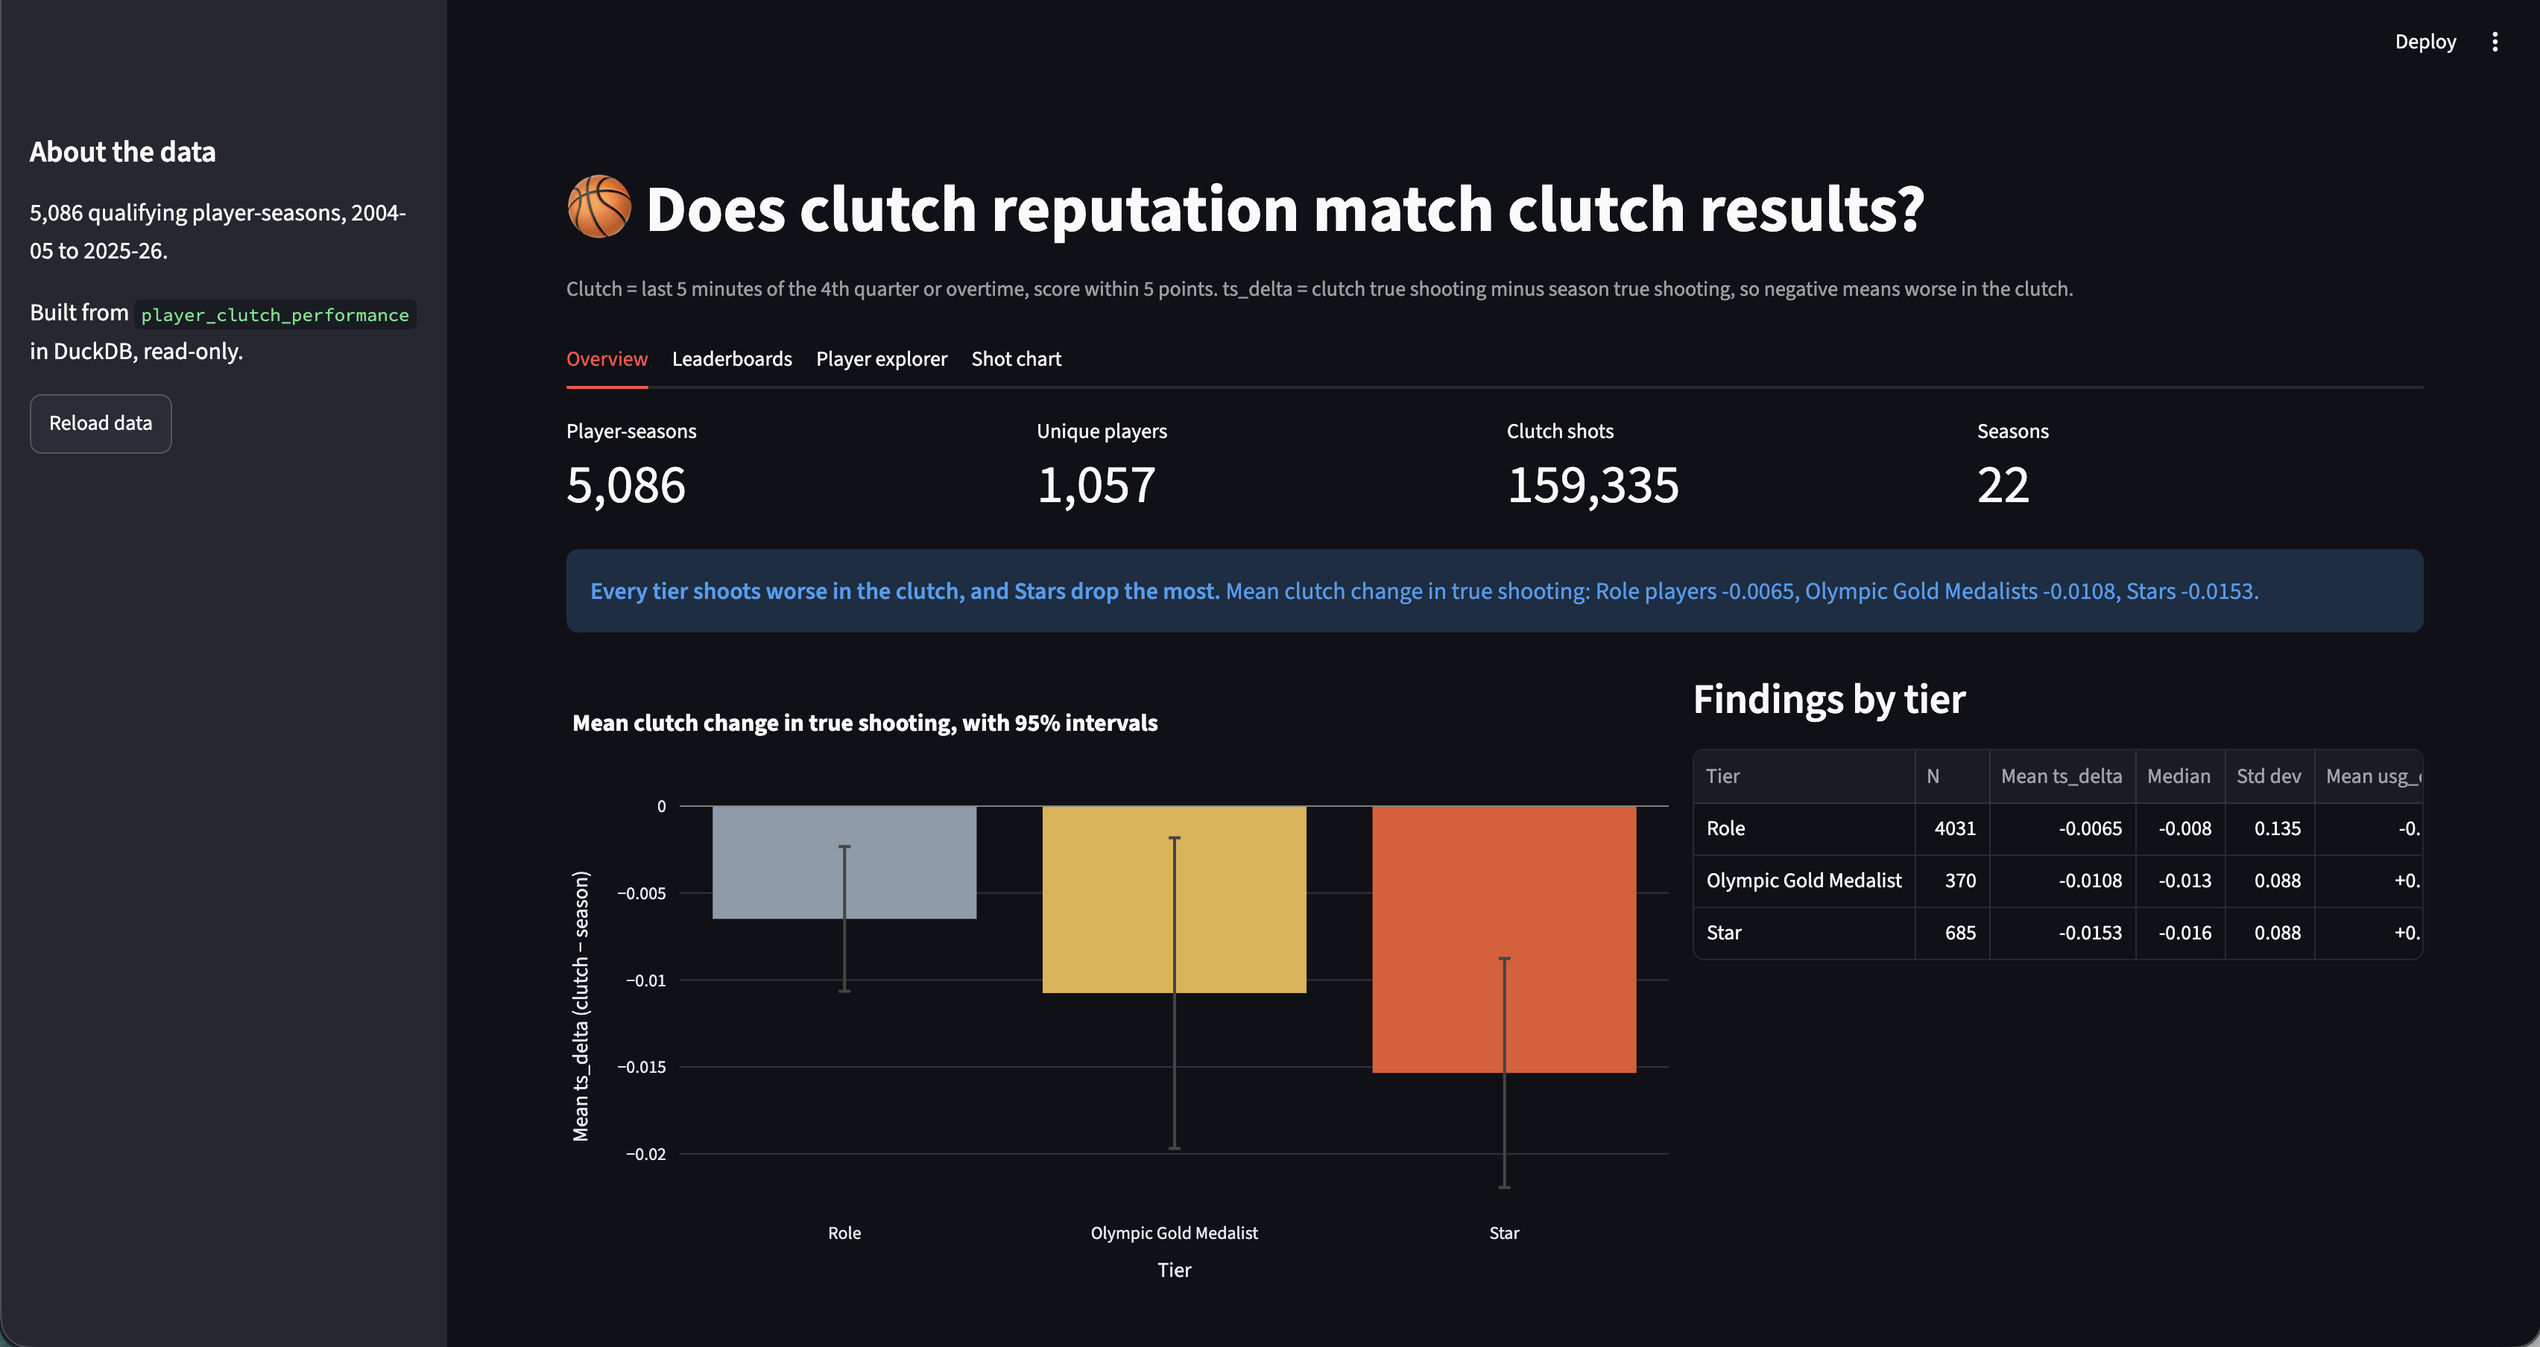
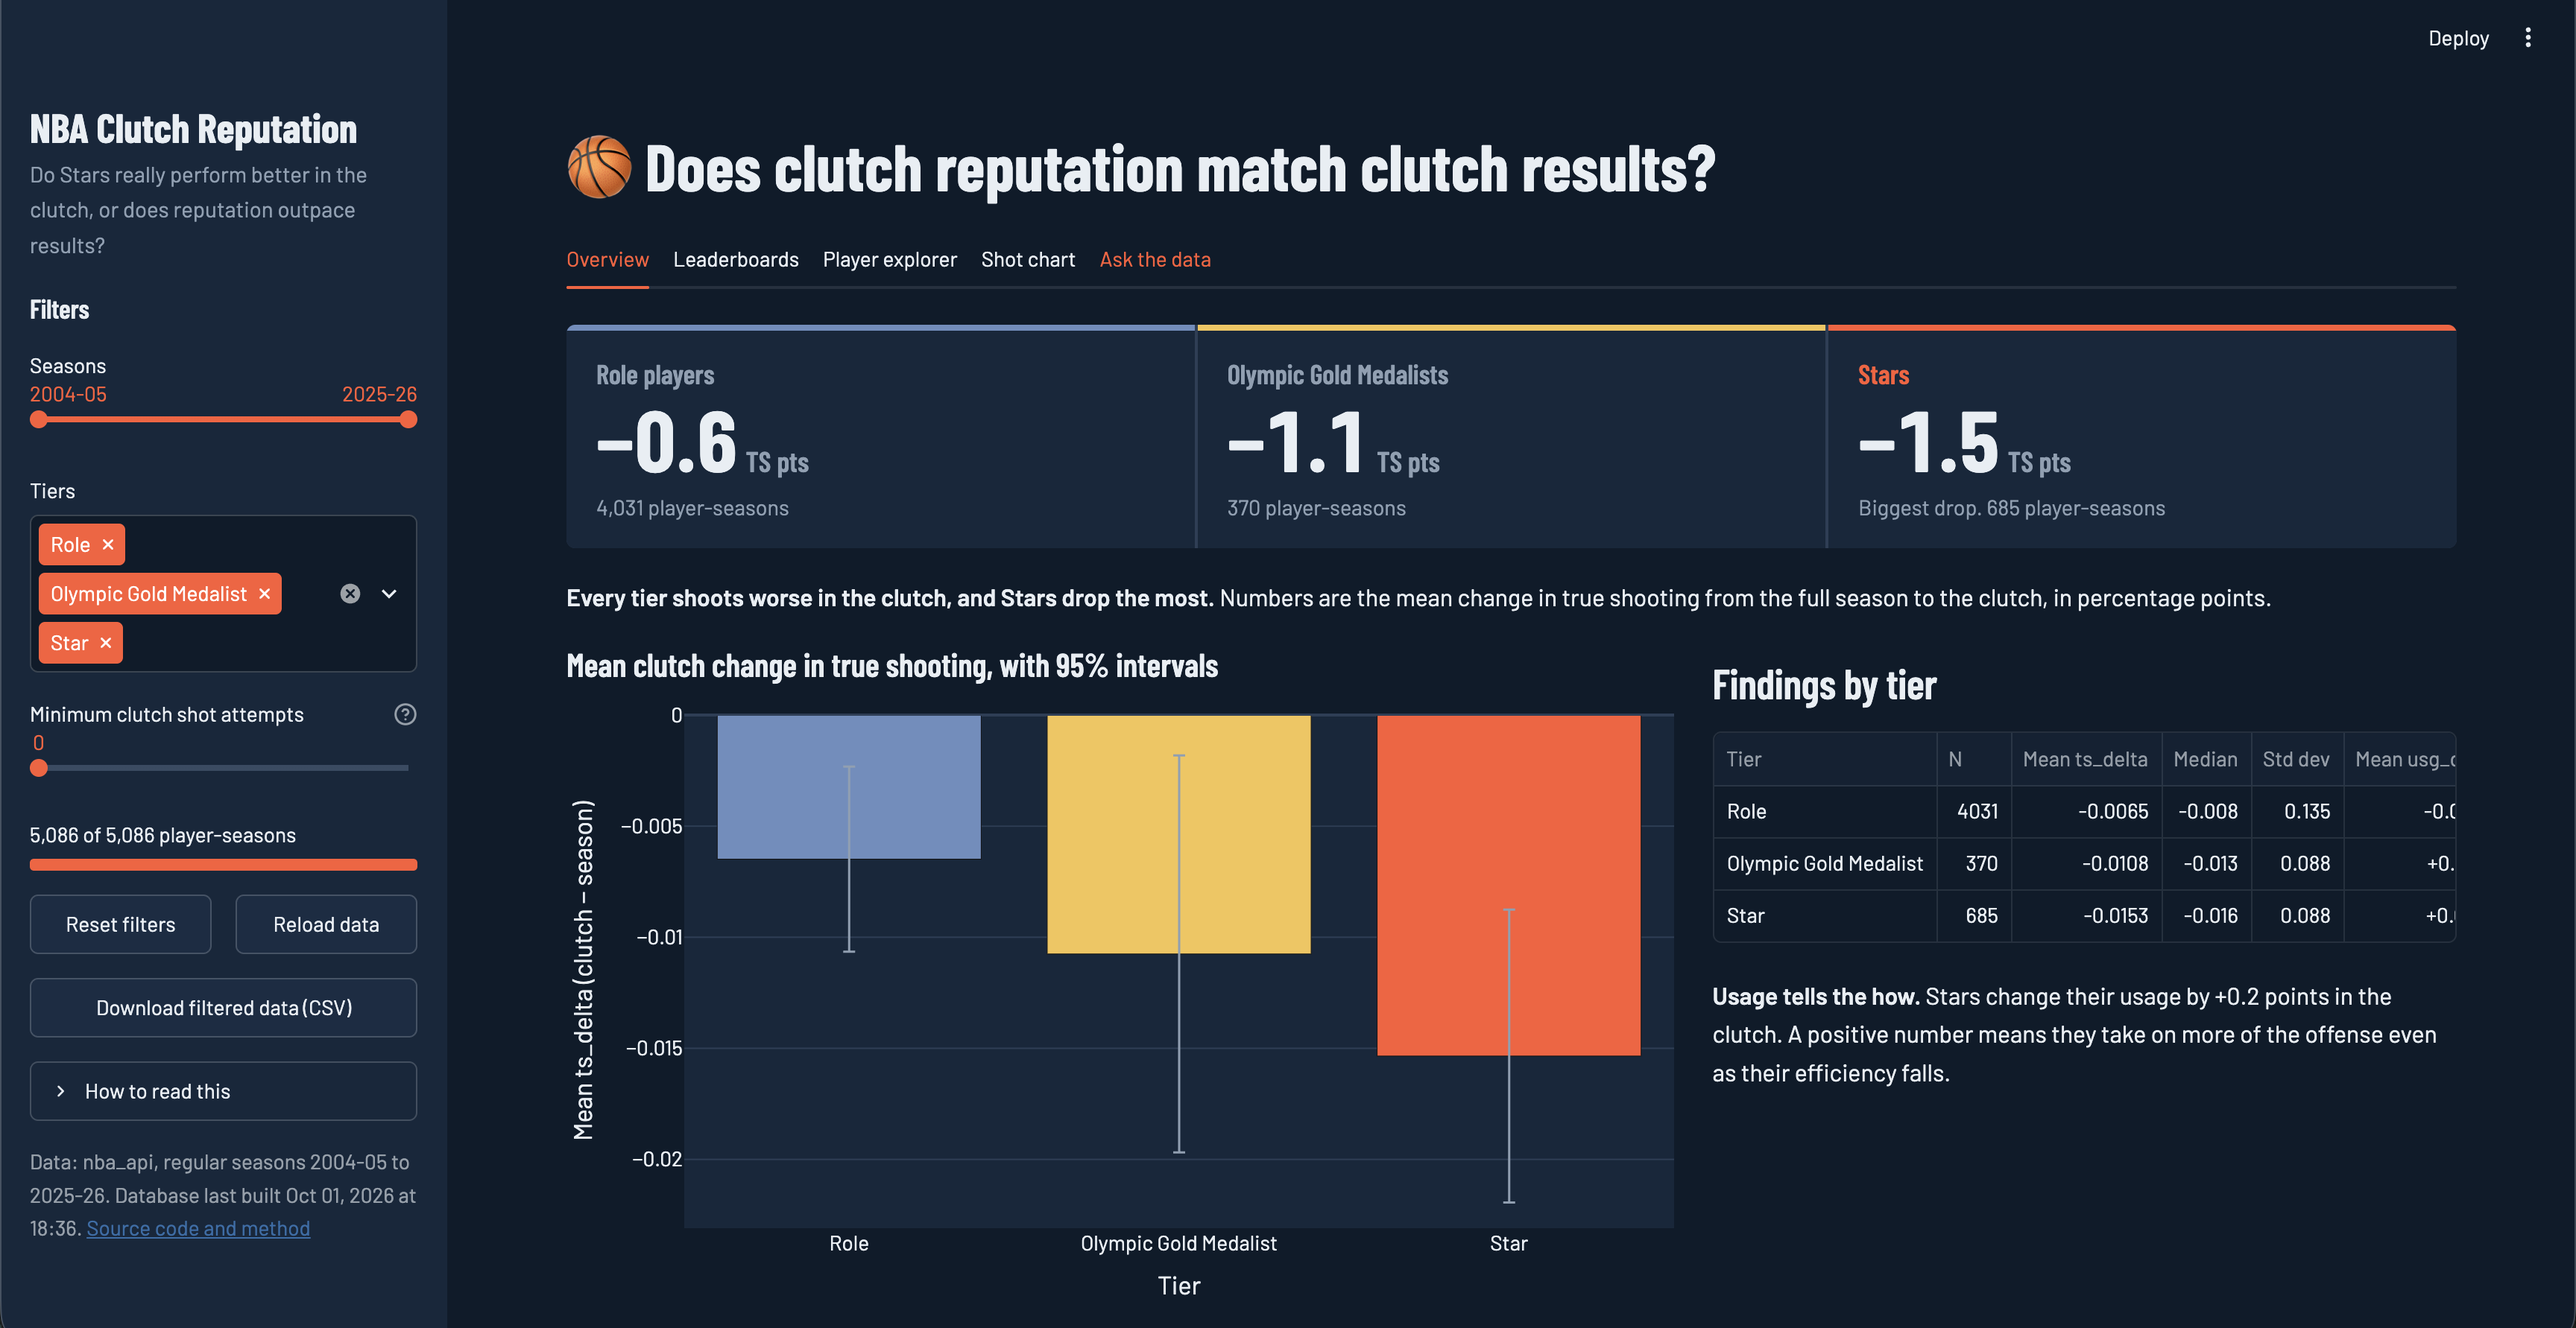
README: pipeline agent, Ask the data tab, hexbin shot chart, updated structure and diagram

diff --git a/README.md b/README.md
@@ -11,7 +11,7 @@
 > [!IMPORTANT]
 > **Stars decline the most in the clutch.** Across 5,086 player-seasons (2004-05 to 2025-26), every reputation tier shoots worse in the clutch than over the full season, and Stars drop the most: −1.5 points of true shooting vs. −0.65 for role players. Reputation gets them the ball, but it doesn't make the shots go in.
 
-An ELT pipeline that extracts NBA player and team statistics via `nba_api`, loads them into DuckDB, and transforms them with dbt to analyze how players' clutch performance compares to their season-long performance and reputation tier — do "Stars" actually perform better in the clutch, or does reputation outpace results? An analyst agent sits on top, answering questions about the data in plain English with read-only SQL.
+An ELT pipeline that extracts NBA player and team statistics via `nba_api`, loads them into DuckDB, and transforms them with dbt to analyze how players' clutch performance compares to their season-long performance and reputation tier — do "Stars" actually perform better in the clutch, or does reputation outpace results? Two Claude agents sit on top: an analyst that answers questions about the data in plain English with read-only SQL (in the terminal and in the dashboard), and a pipeline agent that diagnoses Airflow failures and acts only with your approval.
 
 ## Architecture
 
@@ -24,13 +24,15 @@ flowchart LR
     AN --> SHOTS[load_shots.py]
     SHOTS --> DB
     AN --> AGENT[Analyst agent<br/>read-only SQL]
-    subgraph Airflow
     AN --> DASH[Streamlit dashboard<br/>read-only]
+    AGENT --> DASH
+    subgraph Airflow
         EL
         STG
         AN
         SHOTS
     end
+    PIPE[Pipeline agent<br/>diagnoses, acts with approval] -. REST API .-> Airflow
 ```
 
 The pipeline follows a strict ELT pattern with three sequential stages:
@@ -80,13 +82,24 @@ data_eng_project/
         dbt_project.yml
         tests/           — singular data tests (e.g. shot counts vs. official clutch FGA)
     agent/
-        analyst.py       — analyst agent: answers questions with read-only SQL (see Analyst Agent)
-        eval_cases.py    — eval questions and the checks each answer must pass
-        run_evals.py     — runs the agent on every eval case and scores the answers
+        analyst.py           — analyst agent: answers questions with read-only SQL (see Analyst Agent)
+        eval_cases.py        — eval questions and the checks each answer must pass
+        run_evals.py         — runs the analyst on every eval case and scores the answers
+        pipeline_agent.py    — pipeline agent: diagnoses Airflow runs, acts only with approval (see Pipeline Agent)
+        reports/             — failure reports written by the Airflow callback (gitignored)
+        pipeline_audit.jsonl — every action the pipeline agent proposed and took (gitignored)
     dashboard/
-        app.py           — Streamlit dashboard: overview, leaderboards, player explorer, shot chart
+        app.py           — Streamlit dashboard: overview, leaderboards, player explorer, shot chart, Ask the data
         court.py         — draws an NBA half-court in nba_api's shot coordinates
+        hexbin.py        — hexbin shot chart, with the glowing hot zones
+        style.py         — colours, chart template and the scoreboard strip
+    .streamlit/
+        config.toml      — the dashboard's theme (fonts, colours)
     airflow/
+        dags/
+            nba_pipeline.py        — extract, dbt build, then triggers the shots DAG
+            nba_shots_pipeline.py  — shot extraction and the full dbt build
+            agent_callbacks.py     — on any task failure, runs the pipeline agent and saves a report
         Dockerfile                    — custom Airflow image with project dependencies
         requirements-dbt.txt          — dbt packages, installed into a separate venv in the image
         requirements.txt              — pipeline packages, installed with Airflow's constraints file
@@ -107,7 +120,7 @@ data_eng_project/
 
 ## Setup & Running
 
-**Requirements:** Python 3.13, Docker Desktop (for Airflow). Python dependencies are pinned in `requirements.txt`. The analyst agent also needs an Anthropic API key (see Analyst Agent).
+**Requirements:** Python 3.13, Docker Desktop (for Airflow). Python dependencies are pinned in `requirements.txt`. Both agents also need an Anthropic API key (see Analyst Agent and Pipeline Agent).
 
 **Install dependencies:**
 ```bash
@@ -142,7 +155,7 @@ Then trigger the `nba_clutch_pipeline` DAG from the UI at `localhost:8080` (defa
 <details>
 <summary><b>Why a custom Airflow image and a separate dbt venv?</b></summary>
 
-Airflow runs on a custom image (`airflow/Dockerfile`). Pipeline packages (`airflow/requirements.txt`) are installed with Airflow's official constraints file, so they can't shift Airflow's own tested dependencies. dbt is installed in a separate virtual environment (`airflow/requirements-dbt.txt`, at `/home/airflow/dbt_venv`) because its dependencies conflict with Airflow's (for example, dbt-core requires `pathspec<1.1` while Airflow pins 1.1.1); the DAGs call dbt by that path. Versions are pinned identically to the root `requirements.txt`, so local and Airflow runs use the same code, with one exception: pyarrow isn't listed in `airflow/requirements.txt`, so Airflow's constraints file sets it (25.0.0). The root file pins 25.0.1 because Streamlit, used only by the local dashboard, excludes 25.0.0.
+Airflow runs on a custom image (`airflow/Dockerfile`). Pipeline packages (`airflow/requirements.txt`) are installed with Airflow's official constraints file, so they can't shift Airflow's own tested dependencies. dbt is installed in a separate virtual environment (`airflow/requirements-dbt.txt`, at `/home/airflow/dbt_venv`) because its dependencies conflict with Airflow's (for example, dbt-core requires `pathspec<1.1` while Airflow pins 1.1.1); the DAGs call dbt by that path. Versions are pinned identically to the root `requirements.txt`, so local and Airflow runs use the same code, with one exception: pyarrow isn't listed in `airflow/requirements.txt`, so Airflow's constraints file sets it (25.0.0). The root file pins 25.0.1 because Streamlit, used only by the local dashboard, excludes 25.0.0. `anthropic` is also in `airflow/requirements.txt`, so the failure callback can run the pipeline agent inside the containers; `rich` isn't, because Airflow already pins it (14.3.4) and a second pin would conflict.
 
 </details>
 
@@ -241,12 +254,13 @@ the ranking became consistent across mean and median.
 streamlit run dashboard/app.py
 ```
 
-It opens at `localhost:8501` with four tabs:
+It opens at `localhost:8501` with five tabs:
 
 - **Overview:** the headline finding computed live, mean `ts_delta` by tier with 95% intervals, and the Findings table.
 - **Leaderboards:** the biggest clutch declines and improvements, filterable by tier and season, with a minimum clutch shot attempts slider. A scatter of `ts_delta` against clutch attempts shows why the minimum matters: small samples spread far from zero, and the spread narrows as attempts grow.
 - **Player explorer:** one player's full-season and clutch true shooting across their career, with each season colored by tier, so you can see the season a player's reputation starts.
-- **Shot chart:** all 159,315 located clutch shots on a half-court, as an FG% heatmap (2.5 ft squares, hiding squares with fewer than 20 attempts) or as individual makes and misses.
+- **Shot chart:** all 159,315 located clutch shots on a half-court as a hexbin chart: hexagon size shows how many shots came from a spot, colour shows FG% against every clutch shot from the same spot, and the hottest zones glow. Spots with few shots are pulled toward the league average, so one lucky make can't paint a hot zone. A second view shows individual makes and misses.
+- **Ask the data:** a chat with the analyst agent (see below). Each answer shows the SQL behind it, follow-up questions keep the context, and each session is capped at 20 questions. It needs `ANTHROPIC_API_KEY` set in the terminal before starting the dashboard.
 
 ![Clutch shot heatmap](docs/dashboard-shot-chart.png)
 
@@ -297,6 +311,43 @@ python3 agent/analyst.py --verbose "Which Star player-seasons had the biggest cl
 Expected answers aren't hardcoded: each case's `truth_sql` computes them from the database at eval time, so the evals stay correct when the data is rebuilt. The checker was verified by deliberately corrupting an expected answer and confirming the case failed. Run the full set after changing the prompt, the model descriptions, or the model.
 
 The agent's answers are only as good as the descriptions in `dbt/models/schema.yml`. If it misreads a column or a model's grain, fix the description, rerun `dbt parse`, and ask again.
+
+**In the dashboard.** The **Ask the data** tab runs the same agent. `ask()` takes a callback for each step, so the dashboard shows live progress instead of terminal output, plus the last few messages as history, so follow-ups work. Hostile questions are already handled by the guardrails above: a visitor can type anything, but the connection still refuses everything except a single read-only `SELECT`.
+
+## Pipeline Agent
+
+`agent/pipeline_agent.py` is an on-call assistant for the Airflow pipeline. It checks run states, reads failed task logs and the extract's failure manifests, classifies each failure as transient, data, code or unknown, and quotes the log lines behind its diagnosis. It never runs the pipeline itself: Airflow does. The agent works through Airflow's REST API, the same way you would in the Airflow UI.
+
+**Usage** (from the project root, with Airflow running)
+```bash
+python3 agent/pipeline_agent.py --diagnose-only "Why did the last run fail?"
+python3 agent/pipeline_agent.py "The extract timed out last night; retry it if that's safe."
+```
+
+| Tool | What it does | Permission |
+|---|---|---|
+| `pipeline_status` | Recent runs of both DAGs and the state of every task | read |
+| `task_log` | A task's log, trimmed to error lines plus the end | read |
+| `failure_manifests` | NBA API calls that still failed after retries | read |
+| `data_freshness` | When the database was last written, and key row counts | read |
+| `retry_failed_task` | Clears a failed task so Airflow reruns it and everything after it | needs your approval |
+| `trigger_pipeline` | Starts a new full run | needs your approval |
+
+**Guardrails.** The rules live in the tools' code, not just the prompt, so they hold even if the model ignores its instructions:
+- Every action shows you the proposal and its reason, and waits for you to type `y`. Anything else, including no one at the keyboard, is a no.
+- Actions are refused while any run is active, since DuckDB allows one writer at a time.
+- A task can be retried at most once per run. If it fails again, the agent stops and hands it to you.
+- Every proposal, decline and action is appended to `agent/pipeline_audit.jsonl`, which is also what enforces the one-retry limit.
+- `--diagnose-only` removes the action tools entirely, so the model can't even ask for them.
+
+**Automatic failure reports.** Both DAGs register `diagnose_failure` (in `airflow/dags/agent_callbacks.py`) as their `on_failure_callback`. When any task fails, it runs the agent in diagnose-only mode as a separate process and saves a report to `agent/reports/<dag>__<task>__<run>__try<n>.md`. If the agent can't run, the report says so and includes its error output; the callback never raises, so it can't hide the original failure. To turn it on, export the key in the terminal before starting the containers (Compose passes it through), or put it in `airflow/.env`:
+```bash
+cd airflow
+read -s "ANTHROPIC_API_KEY?Paste key: "
+export ANTHROPIC_API_KEY
+docker compose up -d
+```
+With no key set, the callback skips quietly. Inside the containers the agent reaches Airflow at `http://airflow-apiserver:8080` (set as `AIRFLOW_API_URL` in `docker-compose.yaml`); locally it uses `http://localhost:8080` and the default `airflow` / `airflow` login, which `AIRFLOW_USERNAME` and `AIRFLOW_PASSWORD` override.
 
 ## Known Limitations & Deliberate Simplifications
 
